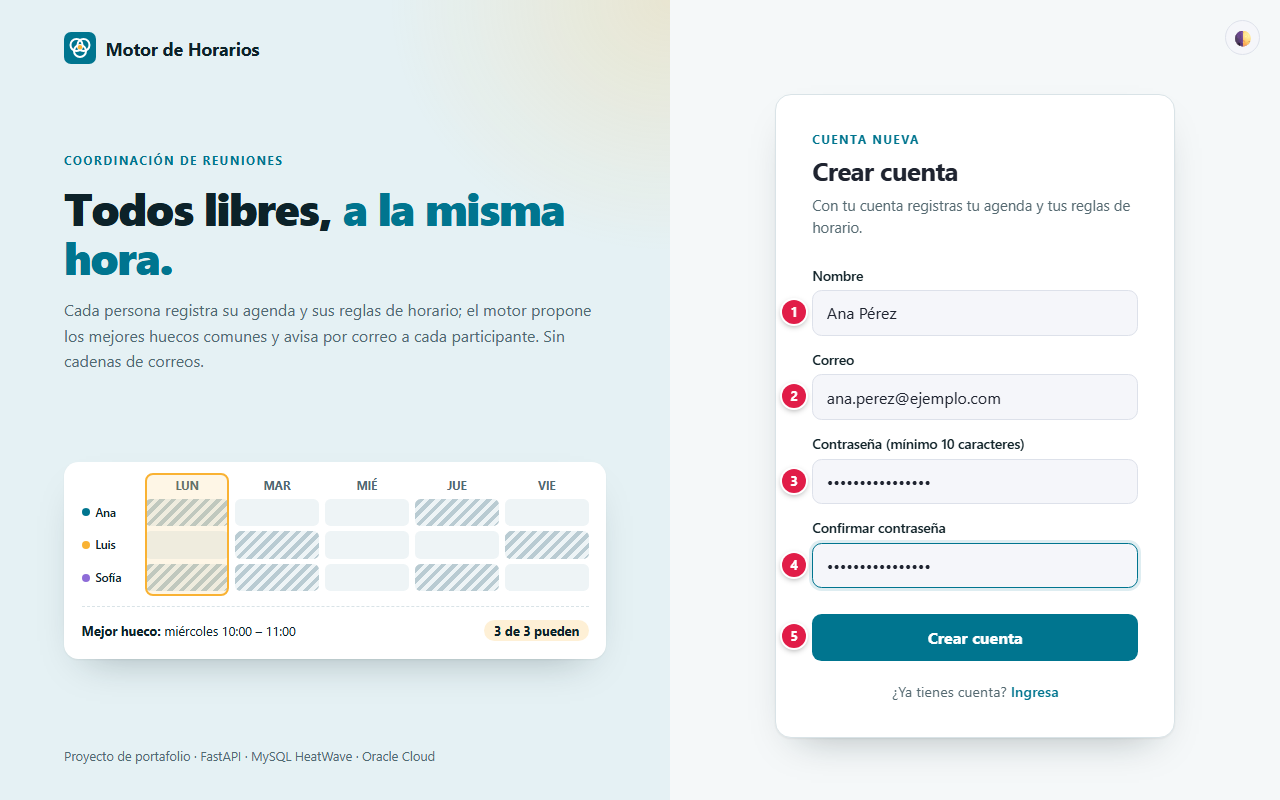
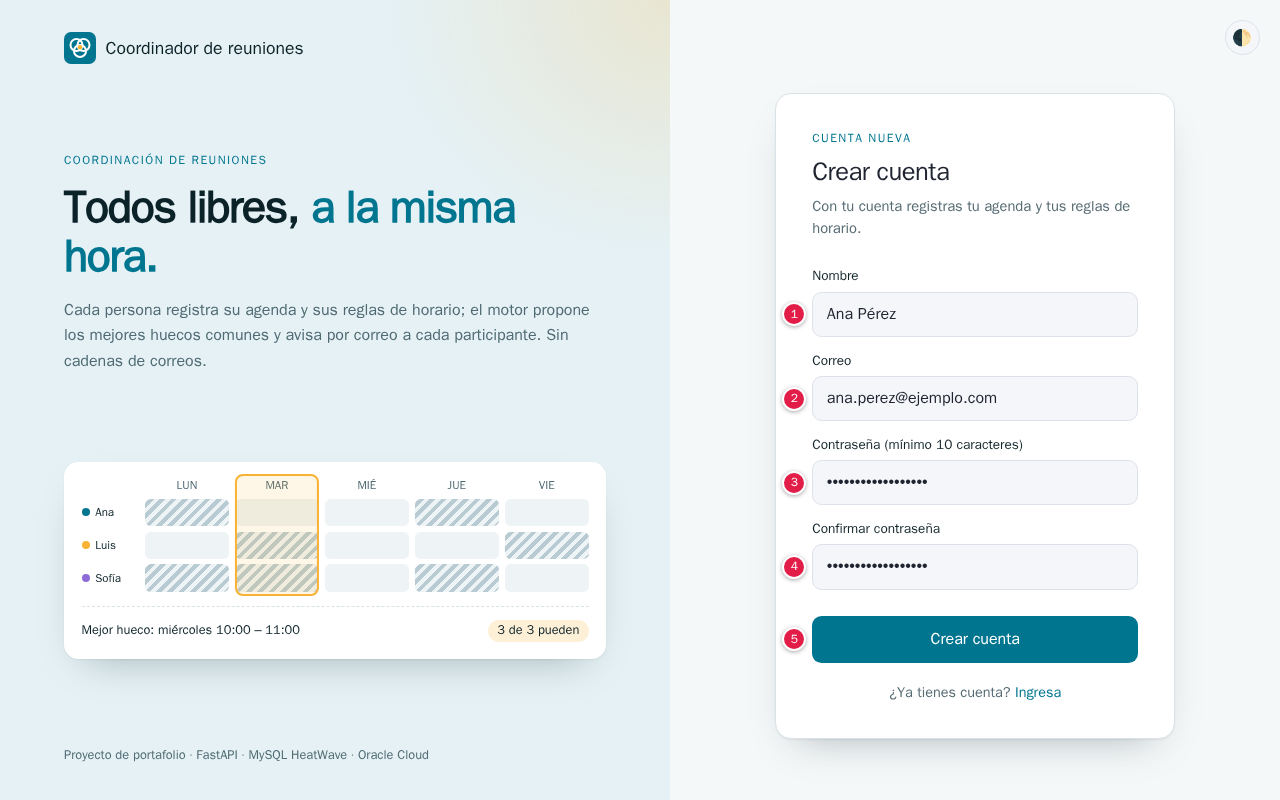
docs: manual con "Perdí mi autenticador", recuperación y capturas nuevas [skip ci]
- Capturas 01 a 05 regeneradas con el nombre "Coordinador de reuniones"; nuevas 06 (segundo
  factor con "Perdí mi autenticador") y 07 (Olvidé mi contraseña). Datos ficticios.
- Textos: recuperación de contraseña (cierra sesiones, mantiene la verificación en dos pasos),
  "Perdí mi autenticador", nombre en la app autenticadora; sin menciones al rol de gestión.

diff --git a/docs/MANUAL.md b/docs/MANUAL.md
@@ -1,4 +1,4 @@
-# 📘 Manual de usuario · Motor de Horarios
+# 📘 Manual de usuario · Coordinador de reuniones
 
 Guía para usar la plataforma paso a paso: qué significa cada campo, qué datos se ingresan y qué
 protege la plataforma. Para la parte técnica vuelve al [README](../README.md).
@@ -34,7 +34,8 @@ horarios** en que todos están libres. Cada participante recibe las sugerencias 
 
 Proyecto en desarrollo, pensado como demo de portafolio:
 
-- No hay recuperación de contraseña por correo: guárdala en un gestor.
+- Los correos (códigos, enlaces y sugerencias) dependen de un servicio externo: si tardan, revisa
+  la carpeta de spam.
 - El token vive en `localStorage`: usa **Salir** en equipos compartidos.
 - Tu nombre es visible para todas las cuentas activas; usa un nombre que no te moleste mostrar.
 
@@ -44,7 +45,6 @@ Palabras técnicas que aparecen en este manual, explicadas en lenguaje simple.
 
 | Término | Qué significa |
 |---|---|
-| **Administrador** | Cuenta con permisos para gestionar usuarios y configuraciones de la aplicación. |
 | **API** | Puerta de entrada de un programa para que otros programas le pidan o le envíen datos. |
 | **Arranque en frío** | Los servidores gratuitos se apagan sin uso; la primera visita tarda unos segundos mientras vuelven a encenderse. |
 | **Base de datos** | Lugar donde la aplicación guarda la información de forma ordenada y permanente. |
@@ -59,7 +59,6 @@ Palabras técnicas que aparecen en este manual, explicadas en lenguaje simple.
 | **Nube** | Servidores de una empresa (Amazon, Microsoft, Google, Oracle…) donde la aplicación funciona sin depender de un computador propio. |
 | **Rate limit (límite de intentos)** | Tope de intentos en poco tiempo, para frenar a quien intenta adivinar contraseñas. |
 | **Recurrencia (RRULE)** | Regla que indica cada cuánto se repite un evento (diario, semanal, días laborables…). |
-| **Rol** | Tipo de cuenta que define qué puede hacer cada persona (por ejemplo, usuario o administrador). |
 | **Servidor** | Computador en la nube que atiende las peticiones de la aplicación. |
 | **Sesión** | El tiempo en que la aplicación te reconoce después de iniciar sesión, sin pedirte la contraseña de nuevo. |
 | **Tema claro / oscuro** | Combinación de colores de la interfaz; puedes elegir la clara o la oscura. |
@@ -118,7 +117,28 @@ cuenta) eliges cómo recibirlo:
 
 Confirma el método escribiendo el primer código. Desde **Seguridad** (menú superior) puedes
 **agregar el método que no elegiste** y escoger cuál se pide **por defecto**; tener los dos te
-permite entrar aunque no tengas el teléfono a mano.
+permite entrar aunque no tengas el teléfono a mano. En la app autenticadora la cuenta aparece
+como **Coordinador de reuniones**.
+
+![Pantalla del código de verificación con el enlace Perdí mi autenticador](img/manual/06-verificacion.png)
+
+| # | Elemento | Qué hacer |
+|:-:|---|---|
+| 1 | Código de 6 dígitos | El código que muestra tu app (o el que te llegó al correo) |
+| 2 | Verificar | Comprueba el código y abre **Mis reuniones** |
+| 3 | Perdí mi autenticador | Siempre visible. Úsalo si perdiste o cambiaste el teléfono |
+
+### 4.2.2 Perdí mi autenticador
+
+1. En la pantalla del código pulsa **Perdí mi autenticador**. Te llega un código de 6 dígitos al
+   correo de tu cuenta, **aunque no tengas activo el código por correo**. Vence pronto y solo
+   puedes pedir unos pocos seguidos.
+2. Escríbelo y pulsa **Verificar**. Varios códigos errados seguidos bloquean el ingreso por un
+   tiempo, igual que con la app.
+3. Aparece un QR: escanéalo con tu **app autenticadora nueva** (o escribe la clave que aparece
+   debajo) y escribe el primer código que muestre. Pulsa **Activar**.
+4. Recién ahí entras. La app anterior deja de servir; hasta que actives la nueva, la cuenta no
+   cambia y no se abre sesión.
 
 ### 4.3 Mi agenda
 
@@ -176,10 +196,20 @@ sugerencias o **cancelar** la reunión.
 
 ### 4.5.1 Olvidé mi contraseña
 
-En la pantalla de ingreso, pulsa **¿Olvidaste tu contraseña?** y escribe tu correo. Si la cuenta existe y
-está activa, te llega un correo con un enlace para crear una contraseña nueva (mínimo 10 caracteres).
-El enlace vence en 30 minutos y sirve una sola vez: deja de funcionar en cuanto la contraseña cambia.
-Por seguridad, la pantalla muestra el mismo mensaje exista o no la cuenta.
+![Pantalla para pedir el enlace de recuperación](img/manual/07-recuperar.png)
+
+| # | Elemento | Qué hacer |
+|:-:|---|---|
+| 1 | Correo | Solo el correo de tu cuenta |
+| 2 | Enviar enlace | Pide el enlace. Por seguridad, el mensaje es el mismo exista o no la cuenta |
+
+1. En la pantalla de ingreso, pulsa **¿Olvidaste tu contraseña?** y escribe tu correo.
+2. Si la cuenta existe y está activa, te llega un correo de **Coordinador de reuniones** con un
+   enlace. Vence pronto y sirve una sola vez: deja de funcionar en cuanto la contraseña cambia.
+3. En el enlace escribe la **Nueva contraseña** (mínimo 10 caracteres) y su confirmación, y pulsa
+   **Guardar contraseña**.
+4. Al guardarla se **cierran todas las sesiones abiertas** de tu cuenta (en cualquier equipo). Tu
+   verificación en dos pasos sigue activa: al volver a entrar se pide el código como siempre.
 
 ### 4.6 Preguntas frecuentes
 
@@ -204,10 +234,10 @@ Tu confianza es lo primero: la plataforma solo pide los datos necesarios para fu
 | Dato | Para qué se usa | Dónde se guarda | Quién lo ve |
 |---|---|---|---|
 | Nombre | Que te puedan invitar | MySQL HeatWave en Oracle Cloud | Todas las cuentas activas |
-| Correo | Iniciar sesión y recibir invitaciones | MySQL HeatWave | **Solo tú y el administrador** |
+| Correo | Iniciar sesión y recibir invitaciones | MySQL HeatWave | **Solo tú** |
 | Contraseña | Iniciar sesión | MySQL HeatWave, **solo su huella** | Nadie: no se puede leer ni recuperar |
-| Horario laboral y bloques | Calcular huecos libres | MySQL HeatWave | Tú y el administrador; el motor los usa sin mostrarlos a otros |
-| Reuniones | Coordinar | MySQL HeatWave | El organizador, los participantes y el administrador |
+| Horario laboral y bloques | Calcular huecos libres | MySQL HeatWave | Solo tú; el motor los usa sin mostrarlos a otros |
+| Reuniones | Coordinar | MySQL HeatWave | El organizador y los participantes |
 | Verificación en dos pasos | Confirmar que eres tú al ingresar | MySQL HeatWave: clave de la app **cifrada** y código del correo **solo como huella** | Nadie: no se puede leer desde la base |
 | Sesión | Mantenerte conectado | `localStorage` de tu navegador | Solo tu navegador; vence sola |
 
@@ -222,17 +252,17 @@ Comprobado en el código del proyecto (`functions/api/auth.py`, `functions/api/m
 - **Verificación en dos pasos obligatoria** con app autenticadora (TOTP) o código por correo:
   la clave de la app se guarda cifrada, un código no se acepta dos veces, los intentos errados
   bloquean temporalmente y el código del correo vence en pocos minutos.
-- **Tu agenda es tuya:** solo tú (o el administrador) puedes ver o cambiar tu horario y tus bloques.
-- **Reuniones privadas:** solo el organizador, los participantes y el administrador ven una
-  reunión; solo el organizador puede confirmarla, recalcularla o cancelarla.
+- **Tu agenda es tuya:** solo tú puedes ver o cambiar tu horario y tus bloques.
+- **Reuniones privadas:** solo el organizador y los participantes ven una reunión; solo el organizador puede confirmarla, recalcularla o cancelarla.
 - **Correos ocultos:** las demás cuentas ven tu nombre, nunca tu correo.
-- **Roles en el servidor:** crear, editar o borrar cuentas desde la administración es exclusivo
-  del rol admin.
 - **Conexión cifrada a la base** (TLS siempre activo) y consultas parametrizadas, sin concatenar
   texto del usuario en el SQL.
 - **CORS restringido** a la web oficial y secretos (base, clave de firma, SMTP) en variables de
   entorno, nunca en el repositorio.
 - **Bloqueo temporal** ante intentos fallidos repetidos de contraseña o de código.
+- **Recuperación sin atajos:** el enlace de "Olvidé mi contraseña" es de un solo uso y vence; al
+  usarlo se cierran todas las sesiones y la verificación en dos pasos se mantiene. "Perdí mi
+  autenticador" no abre sesión hasta configurar una app autenticadora nueva.
 - **Registro de eventos de seguridad:** ingresos, intentos fallidos, bloqueos y cambios de
   contraseña quedan registrados (nunca contraseñas ni códigos) y se depuran solos.
 - **Al día en seguridad:** el runtime, el sistema y las dependencias se mantienen con los últimos
